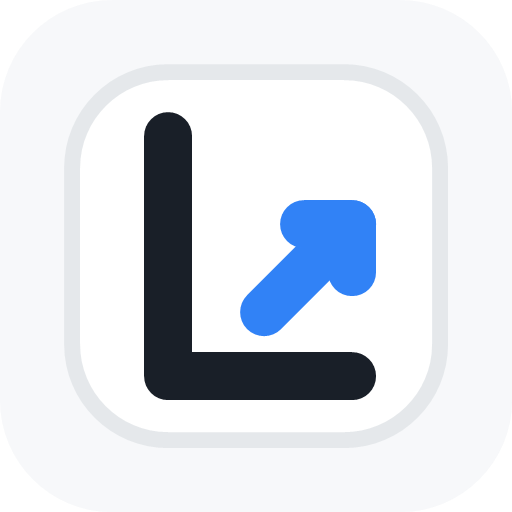
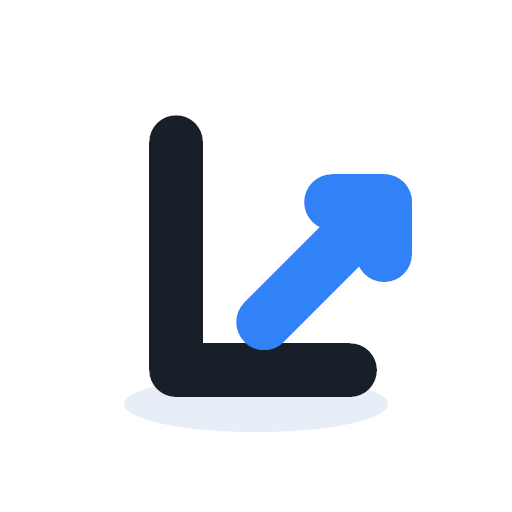
디자인 수정

diff --git a/apps/launchboard/pb_hooks/pages/assets/style.css b/apps/launchboard/pb_hooks/pages/assets/style.css
@@ -16,10 +16,6 @@ button:focus-visible {
   box-shadow: 0 0 0 3px rgba(49, 130, 246, 0.18);
 }
 
-.launchboard-choice {
-  cursor: pointer;
-}
-
 .launchboard-choice-input {
   position: absolute;
   width: 1px;
@@ -42,30 +38,6 @@ button:focus-visible {
   padding: 0;
 }
 
-.launchboard-status-choice,
-.launchboard-priority-choice {
-  display: flex;
-  align-items: center;
-  justify-content: center;
-  gap: 0.375rem;
-  min-height: 2.75rem;
-  border-radius: 0.5rem;
-  background: #f7f8fa;
-  color: #4e5968;
-  font-size: 0.875rem;
-  font-weight: 700;
-  box-shadow: inset 0 0 0 1px rgba(227, 231, 237, 0);
-  transition:
-    background-color 140ms ease,
-    color 140ms ease,
-    box-shadow 140ms ease;
-}
-
-.launchboard-status-choice:hover,
-.launchboard-priority-choice:hover {
-  background: #f2f4f6;
-}
-
 .launchboard-choice-input:focus-visible + .launchboard-status-choice,
 .launchboard-choice-input:focus-visible + .launchboard-priority-choice {
   box-shadow: 0 0 0 3px rgba(49, 130, 246, 0.18);
@@ -81,96 +53,6 @@ button:focus-visible {
   background: #191f28;
   color: #ffffff;
   box-shadow: inset 0 0 0 1px #191f28;
-}
-
-@media (max-width: 639px) {
-  .launchboard-detail-page > * + * {
-    margin-top: 0.625rem !important;
-  }
-
-  .launchboard-detail-page > header {
-    padding: 0.625rem 0.75rem;
-  }
-
-  .launchboard-detail-page > header .mt-3 {
-    margin-top: 0.5rem;
-  }
-
-  .launchboard-detail-page > header h1 {
-    font-size: 1rem;
-    line-height: 1.4;
-  }
-
-  .launchboard-detail-page > header p {
-    font-size: 0.75rem;
-  }
-
-  .launchboard-detail-form {
-    gap: 0.625rem;
-  }
-
-  .launchboard-detail-form > section {
-    padding: 0.75rem;
-    border-radius: 0.5rem;
-  }
-
-  .launchboard-detail-form > section > h2 {
-    font-size: 0.9375rem;
-  }
-
-  .launchboard-detail-form > section > h2 + div {
-    margin-top: 0.625rem;
-  }
-
-  .launchboard-detail-form label,
-  .launchboard-choice-fieldset > legend {
-    gap: 0.375rem;
-    font-size: 0.8125rem;
-  }
-
-  .launchboard-detail-form section > div,
-  .launchboard-choice-fieldset,
-  .launchboard-choice-fieldset > div {
-    gap: 0.5rem;
-  }
-
-  .launchboard-detail-form input:not([type='checkbox']):not([type='radio']),
-  .launchboard-detail-form select {
-    height: 2.375rem;
-    padding-inline: 0.75rem;
-    font-size: 0.875rem;
-  }
-
-  .launchboard-detail-form textarea {
-    padding: 0.625rem 0.75rem;
-    font-size: 0.875rem;
-    line-height: 1.5;
-  }
-
-  .launchboard-status-choice,
-  .launchboard-priority-choice {
-    min-height: 2.25rem;
-    gap: 0.25rem;
-    border-radius: 0.5rem;
-    font-size: 0.8125rem;
-  }
-
-  .launchboard-status-choice > span:first-child {
-    width: 0.875rem;
-    height: 0.875rem;
-  }
-
-  .launchboard-detail-form > .sticky {
-    margin-inline: -0.75rem;
-    padding: 0.5rem 0.75rem;
-  }
-
-  .launchboard-detail-form > .sticky a,
-  .launchboard-detail-form > .sticky button {
-    height: 2.625rem;
-    min-height: 2.625rem;
-    font-size: 0.875rem;
-  }
 }
 
 .launchboard-sortable-ghost {